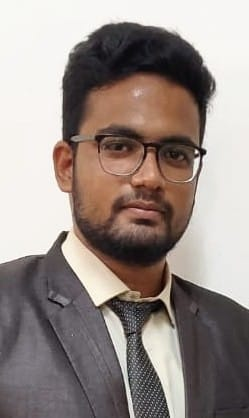
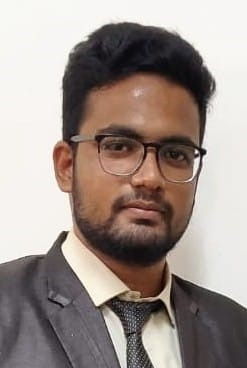
updated picture size

diff --git a/style.css b/style.css
@@ -473,7 +473,7 @@ nav a {
 
 .small-image {
   width: 250px;
-  height: 200px;
+  height: 320px !important;
   border-radius: 20%;
 }
 
